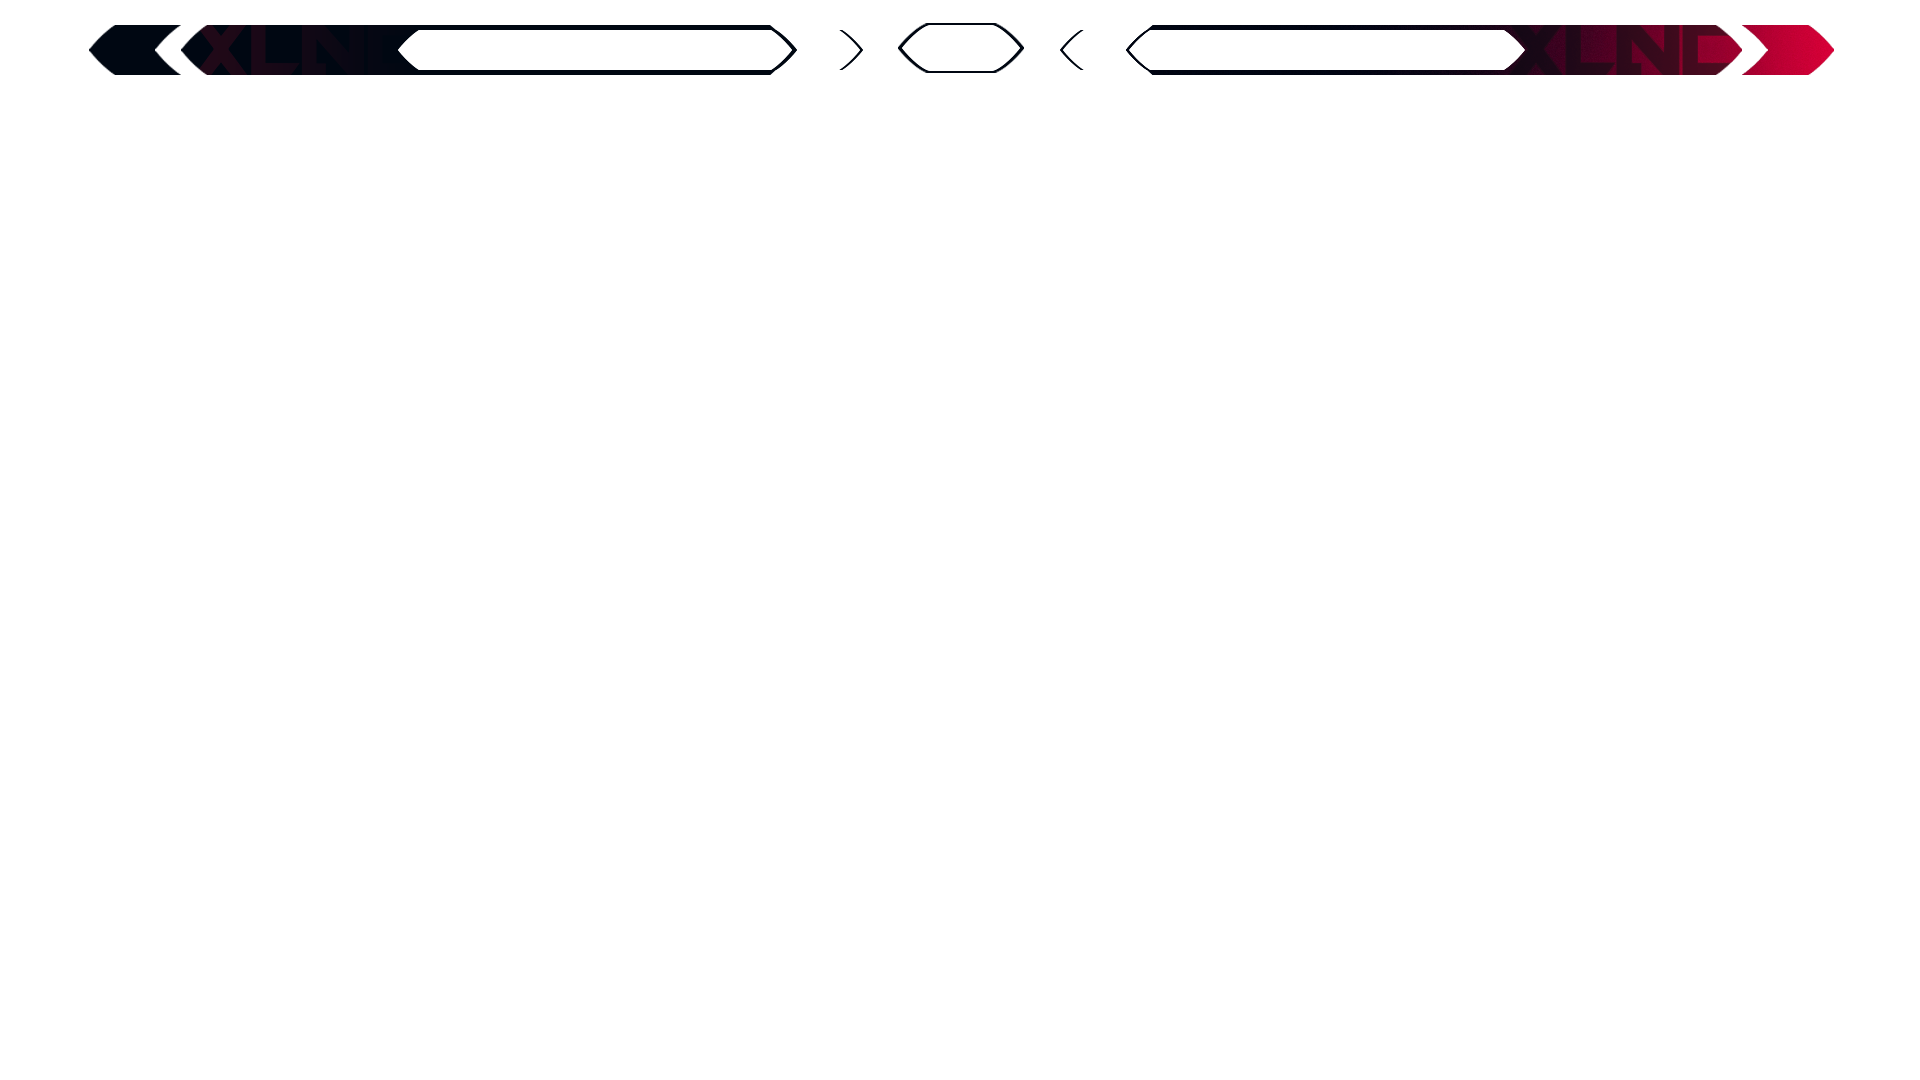
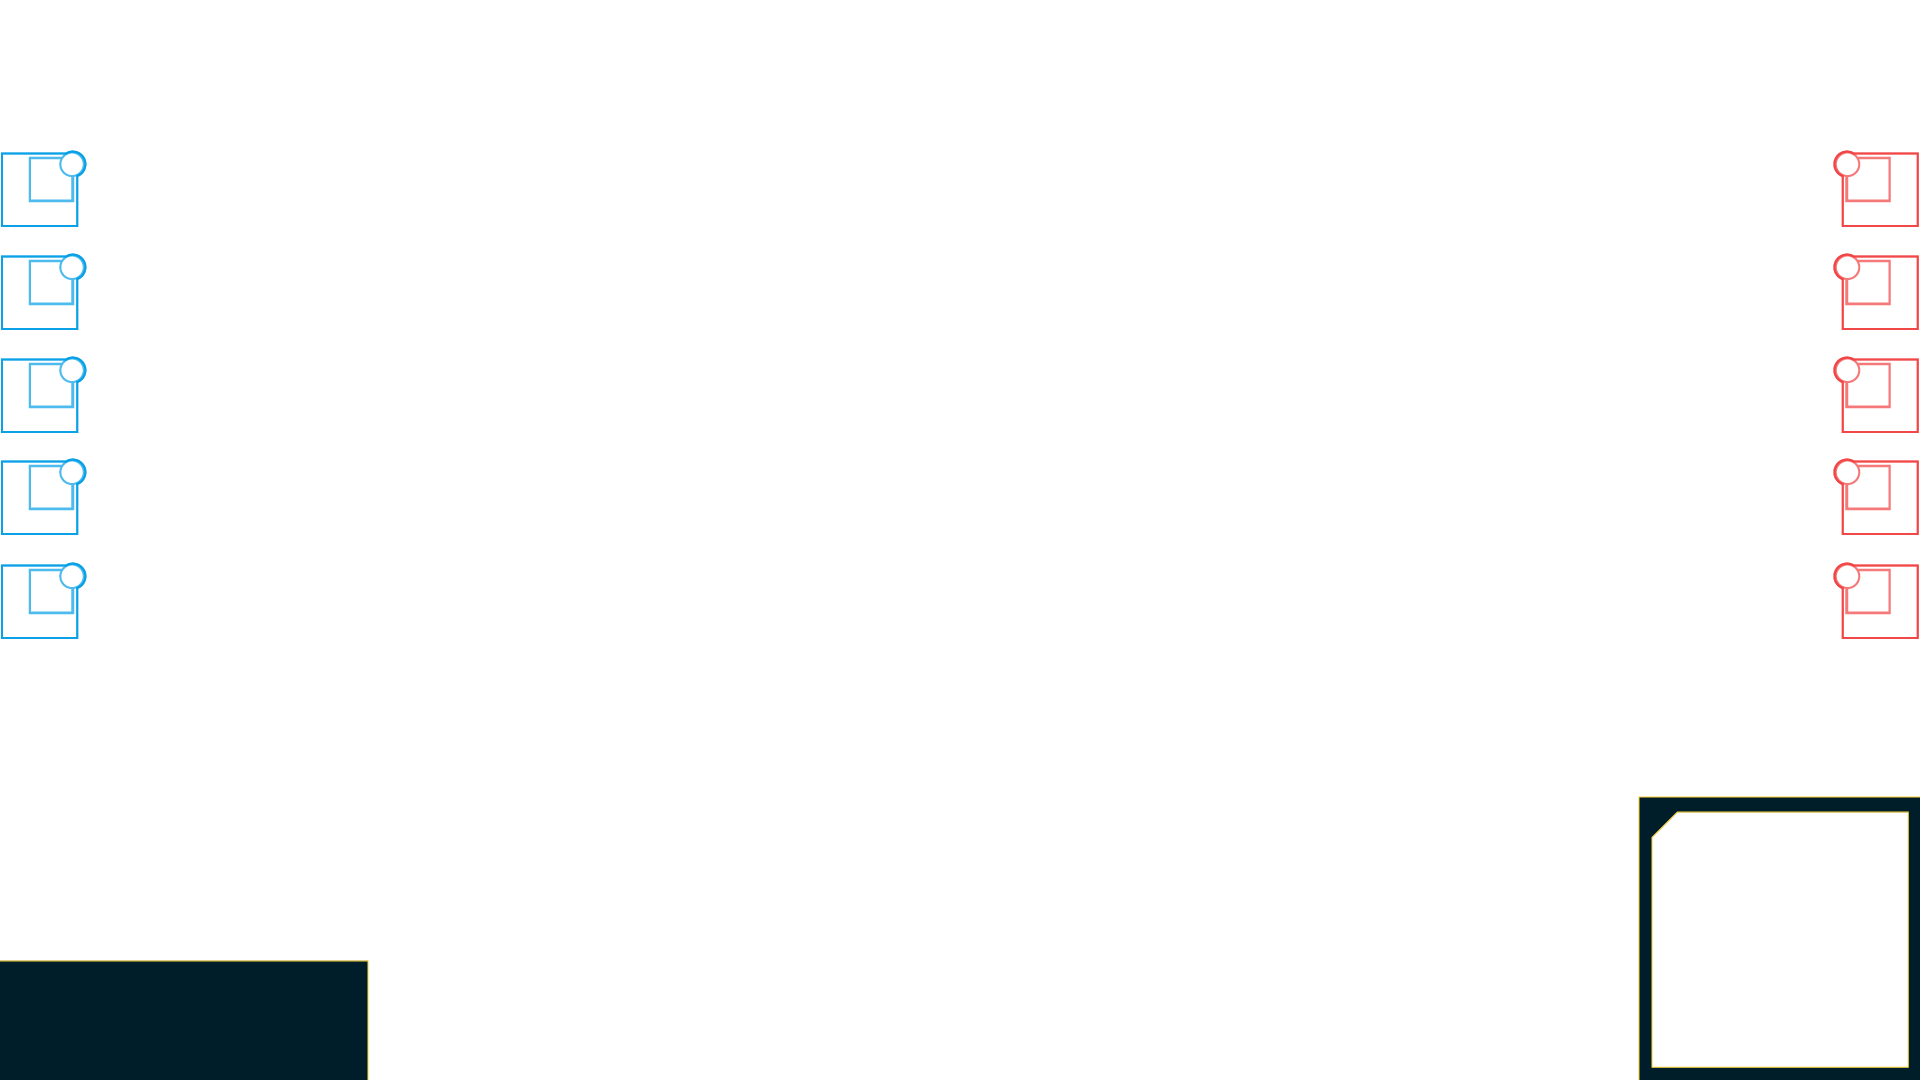
Added in game, removed scoreboard and int

diff --git a/bundles/xlnc_bundle/graphics/InGame.html b/bundles/xlnc_bundle/graphics/InGame.html
@@ -1,0 +1,13 @@
+<!DOCTYPE html>
+<html lang="en">
+
+<head>
+    <meta charset="UTF-8">
+    <style>
+        body {
+            background-image: url("./layouts/inGame.png");
+        }
+    </style>
+</head>
+
+</html>
